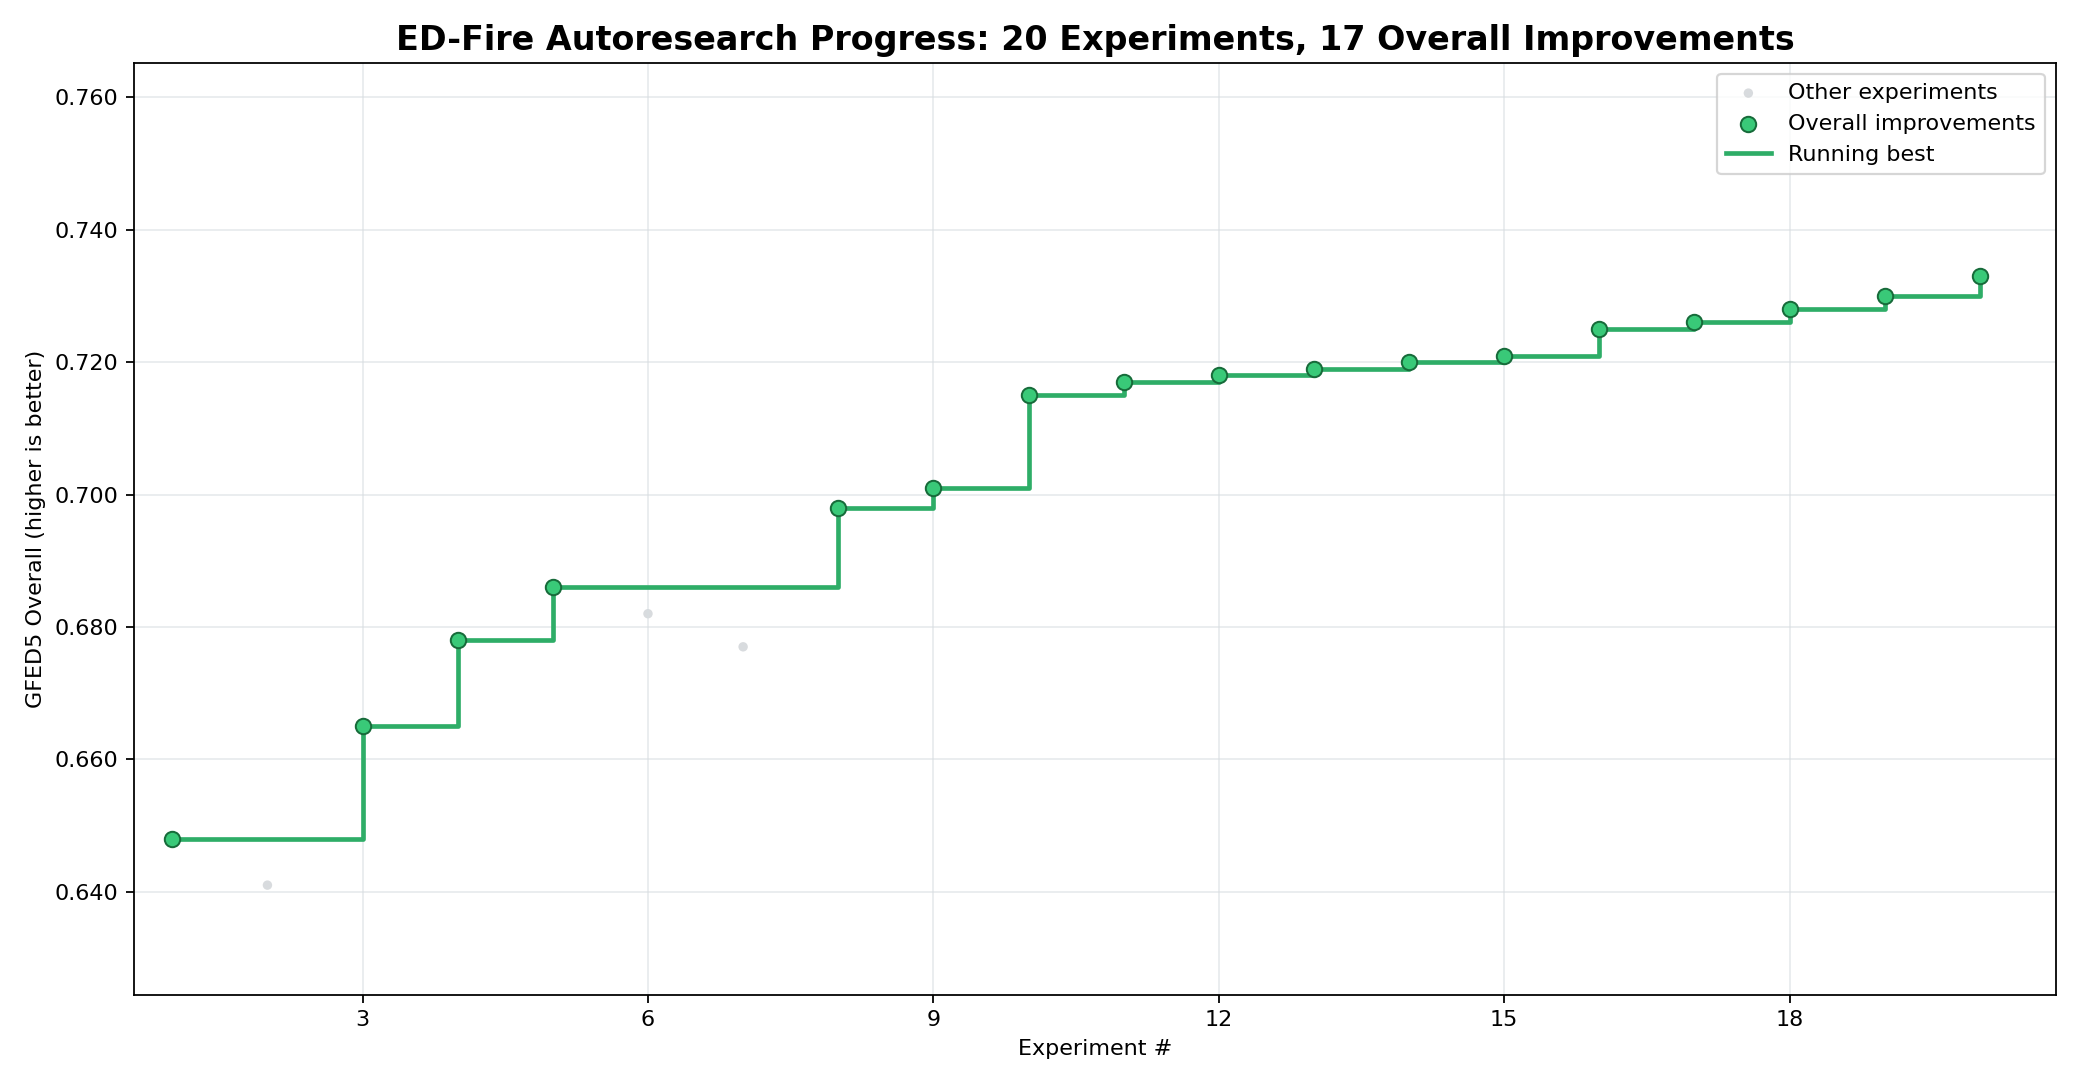
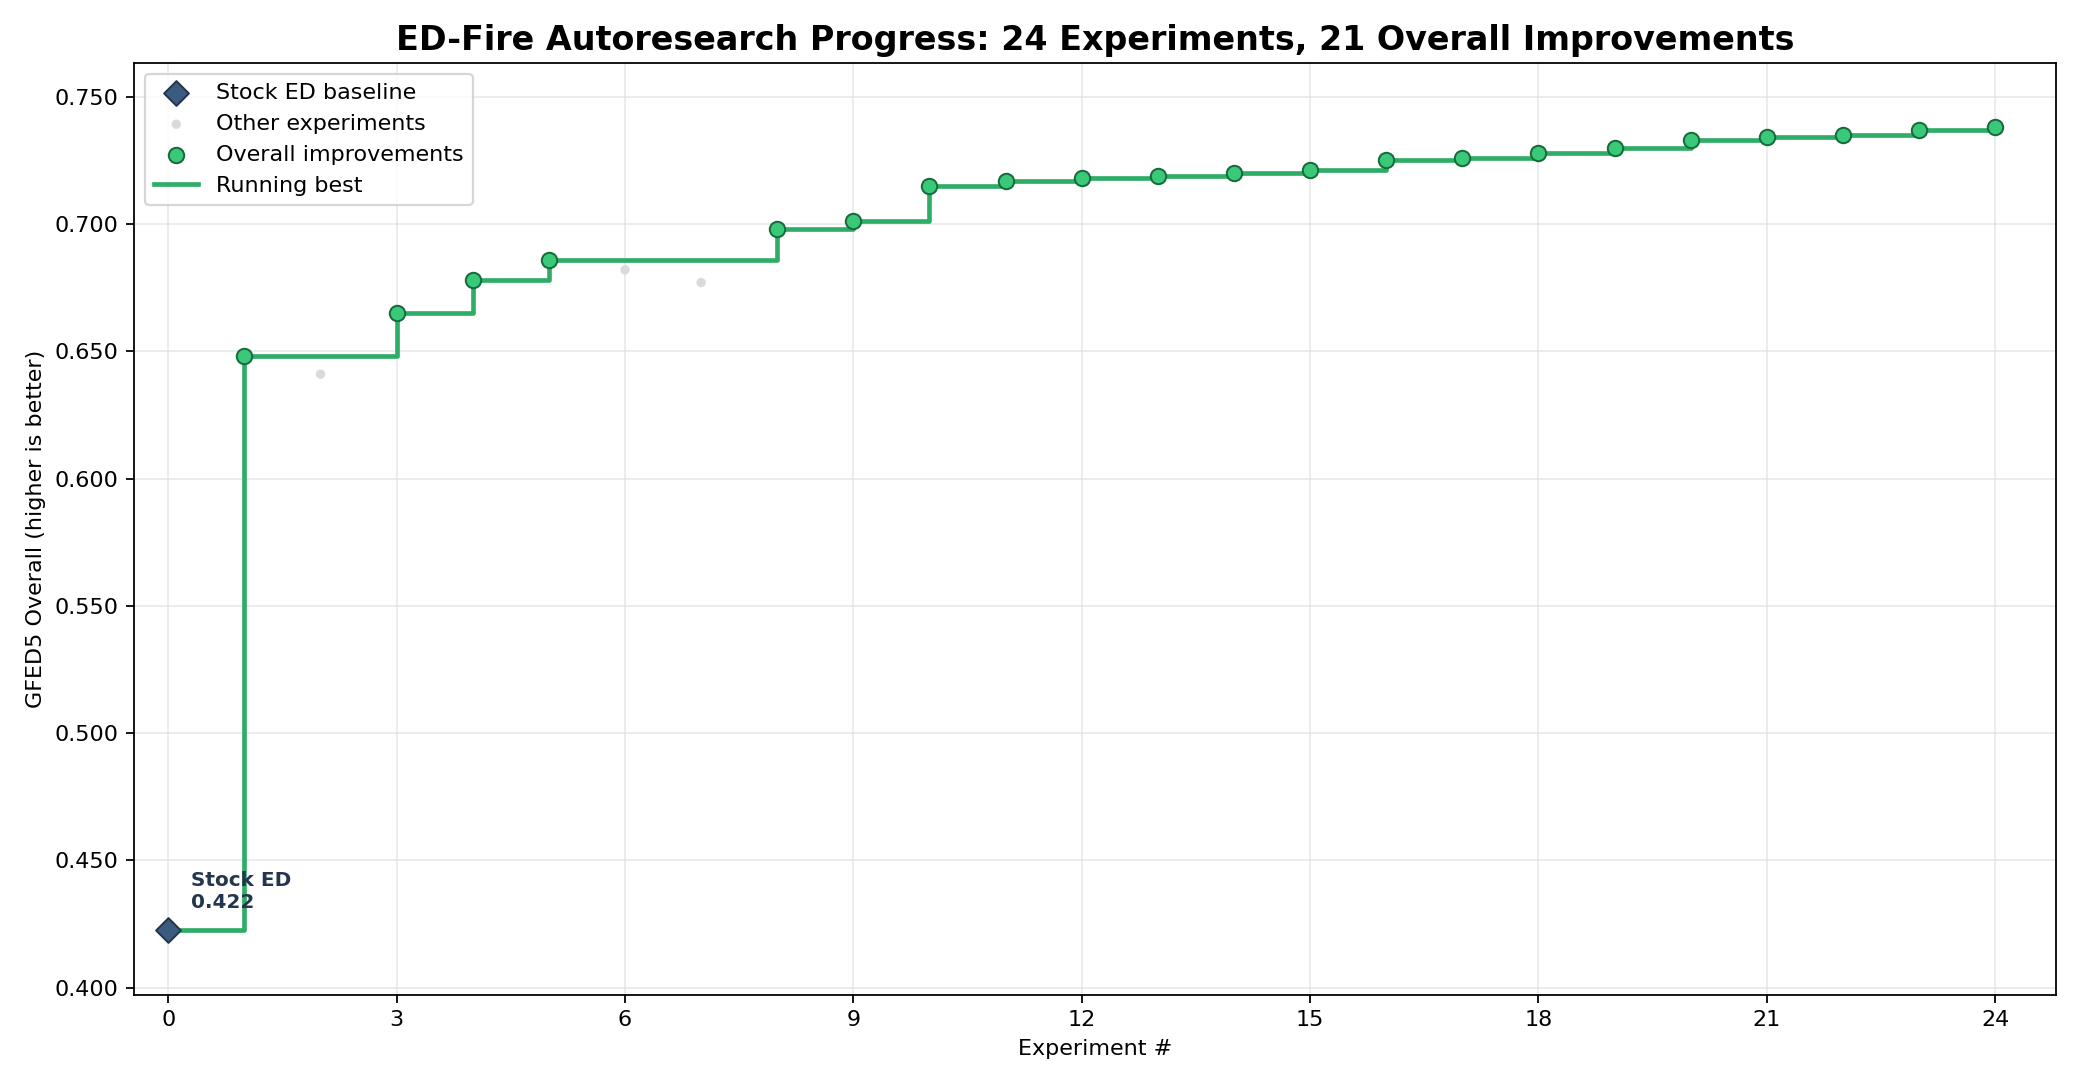
Show stock ED baseline in progress graph

diff --git a/scripts/progress.py b/scripts/progress.py
@@ -30,6 +30,8 @@ from matplotlib.ticker import FormatStrFormatter, MaxNLocator
 ROOT = Path(__file__).resolve().parents[1]
 DEFAULT_RESULTS = ROOT / "autoresearch" / "results.tsv"
 DEFAULT_OUTPUT = ROOT / "progress.png"
+# Official apples-to-apples GFED5 ILAMB check recorded in commit c4a7b5f.
+STOCK_ED_BASELINE_OVERALL = 0.4225
 REQUIRED_FIELDS = {
     "commit",
     "overall",
@@ -72,8 +74,15 @@ def render(results: Path, output: Path) -> bool:
     scores = np.asarray([float(row["overall"]) for row in rows], dtype=np.float64)
     running_best = np.maximum.accumulate(scores)
     experiments = np.arange(1, len(rows) + 1)
-    improvements = np.concatenate(([True], running_best[1:] > running_best[:-1]))
+    improvements = np.concatenate(
+        (
+            [scores[0] > STOCK_ED_BASELINE_OVERALL],
+            running_best[1:] > running_best[:-1],
+        )
+    )
     other_experiments = ~improvements
+    progress_steps = np.arange(0, len(rows) + 1)
+    progress_scores = np.concatenate(([STOCK_ED_BASELINE_OVERALL], running_best))
 
     figure, axis = plt.subplots(figsize=(13, 6.8))
     figure.patch.set_facecolor("white")
@@ -89,8 +98,8 @@ def render(results: Path, output: Path) -> bool:
         zorder=1,
     )
     axis.step(
-        experiments,
-        running_best,
+        progress_steps,
+        progress_scores,
         where="post",
         color="#2EAD67",
         linewidth=2.1,
@@ -107,6 +116,26 @@ def render(results: Path, output: Path) -> bool:
         label="Overall improvements",
         zorder=3,
     )
+    axis.scatter(
+        [0],
+        [STOCK_ED_BASELINE_OVERALL],
+        s=62,
+        marker="D",
+        color="#3D5A80",
+        edgecolor="#24364D",
+        linewidth=0.9,
+        label="Stock ED baseline",
+        zorder=4,
+    )
+    axis.annotate(
+        f"Stock ED\n{STOCK_ED_BASELINE_OVERALL:.3f}",
+        xy=(0, STOCK_ED_BASELINE_OVERALL),
+        xytext=(10, 10),
+        textcoords="offset points",
+        color="#24364D",
+        fontsize=9,
+        fontweight="semibold",
+    )
     count = len(rows)
     kept = int(improvements.sum())
     axis.set_title(
@@ -119,17 +148,19 @@ def render(results: Path, output: Path) -> bool:
     axis.set_ylabel("GFED5 Overall (higher is better)")
     axis.xaxis.set_major_locator(MaxNLocator(integer=True, min_n_ticks=2))
     axis.yaxis.set_major_formatter(FormatStrFormatter("%.3f"))
-    axis.set_xlim(0.6, max(2, len(rows)) + 0.8)
-    spread = max(0.006, float(scores.max() - scores.min()))
-    lower_margin = max(0.004, spread * 0.18)
-    upper_margin = max(0.008, spread * 0.35)
+    axis.set_xlim(-0.45, max(2, len(rows)) + 0.8)
+    chart_min = min(STOCK_ED_BASELINE_OVERALL, float(scores.min()))
+    chart_max = max(STOCK_ED_BASELINE_OVERALL, float(scores.max()))
+    spread = max(0.006, chart_max - chart_min)
+    lower_margin = max(0.008, spread * 0.08)
+    upper_margin = max(0.008, spread * 0.08)
     axis.set_ylim(
-        max(0.0, float(scores.min()) - lower_margin),
-        min(1.0, float(scores.max()) + upper_margin),
+        max(0.0, chart_min - lower_margin),
+        min(1.0, chart_max + upper_margin),
     )
     axis.grid(color="#D7DDE1", linewidth=0.7, alpha=0.65)
     handles, labels = axis.get_legend_handles_labels()
-    order = [0, 2, 1]
+    order = [3, 0, 2, 1]
     axis.legend(
         [handles[index] for index in order],
         [labels[index] for index in order],
